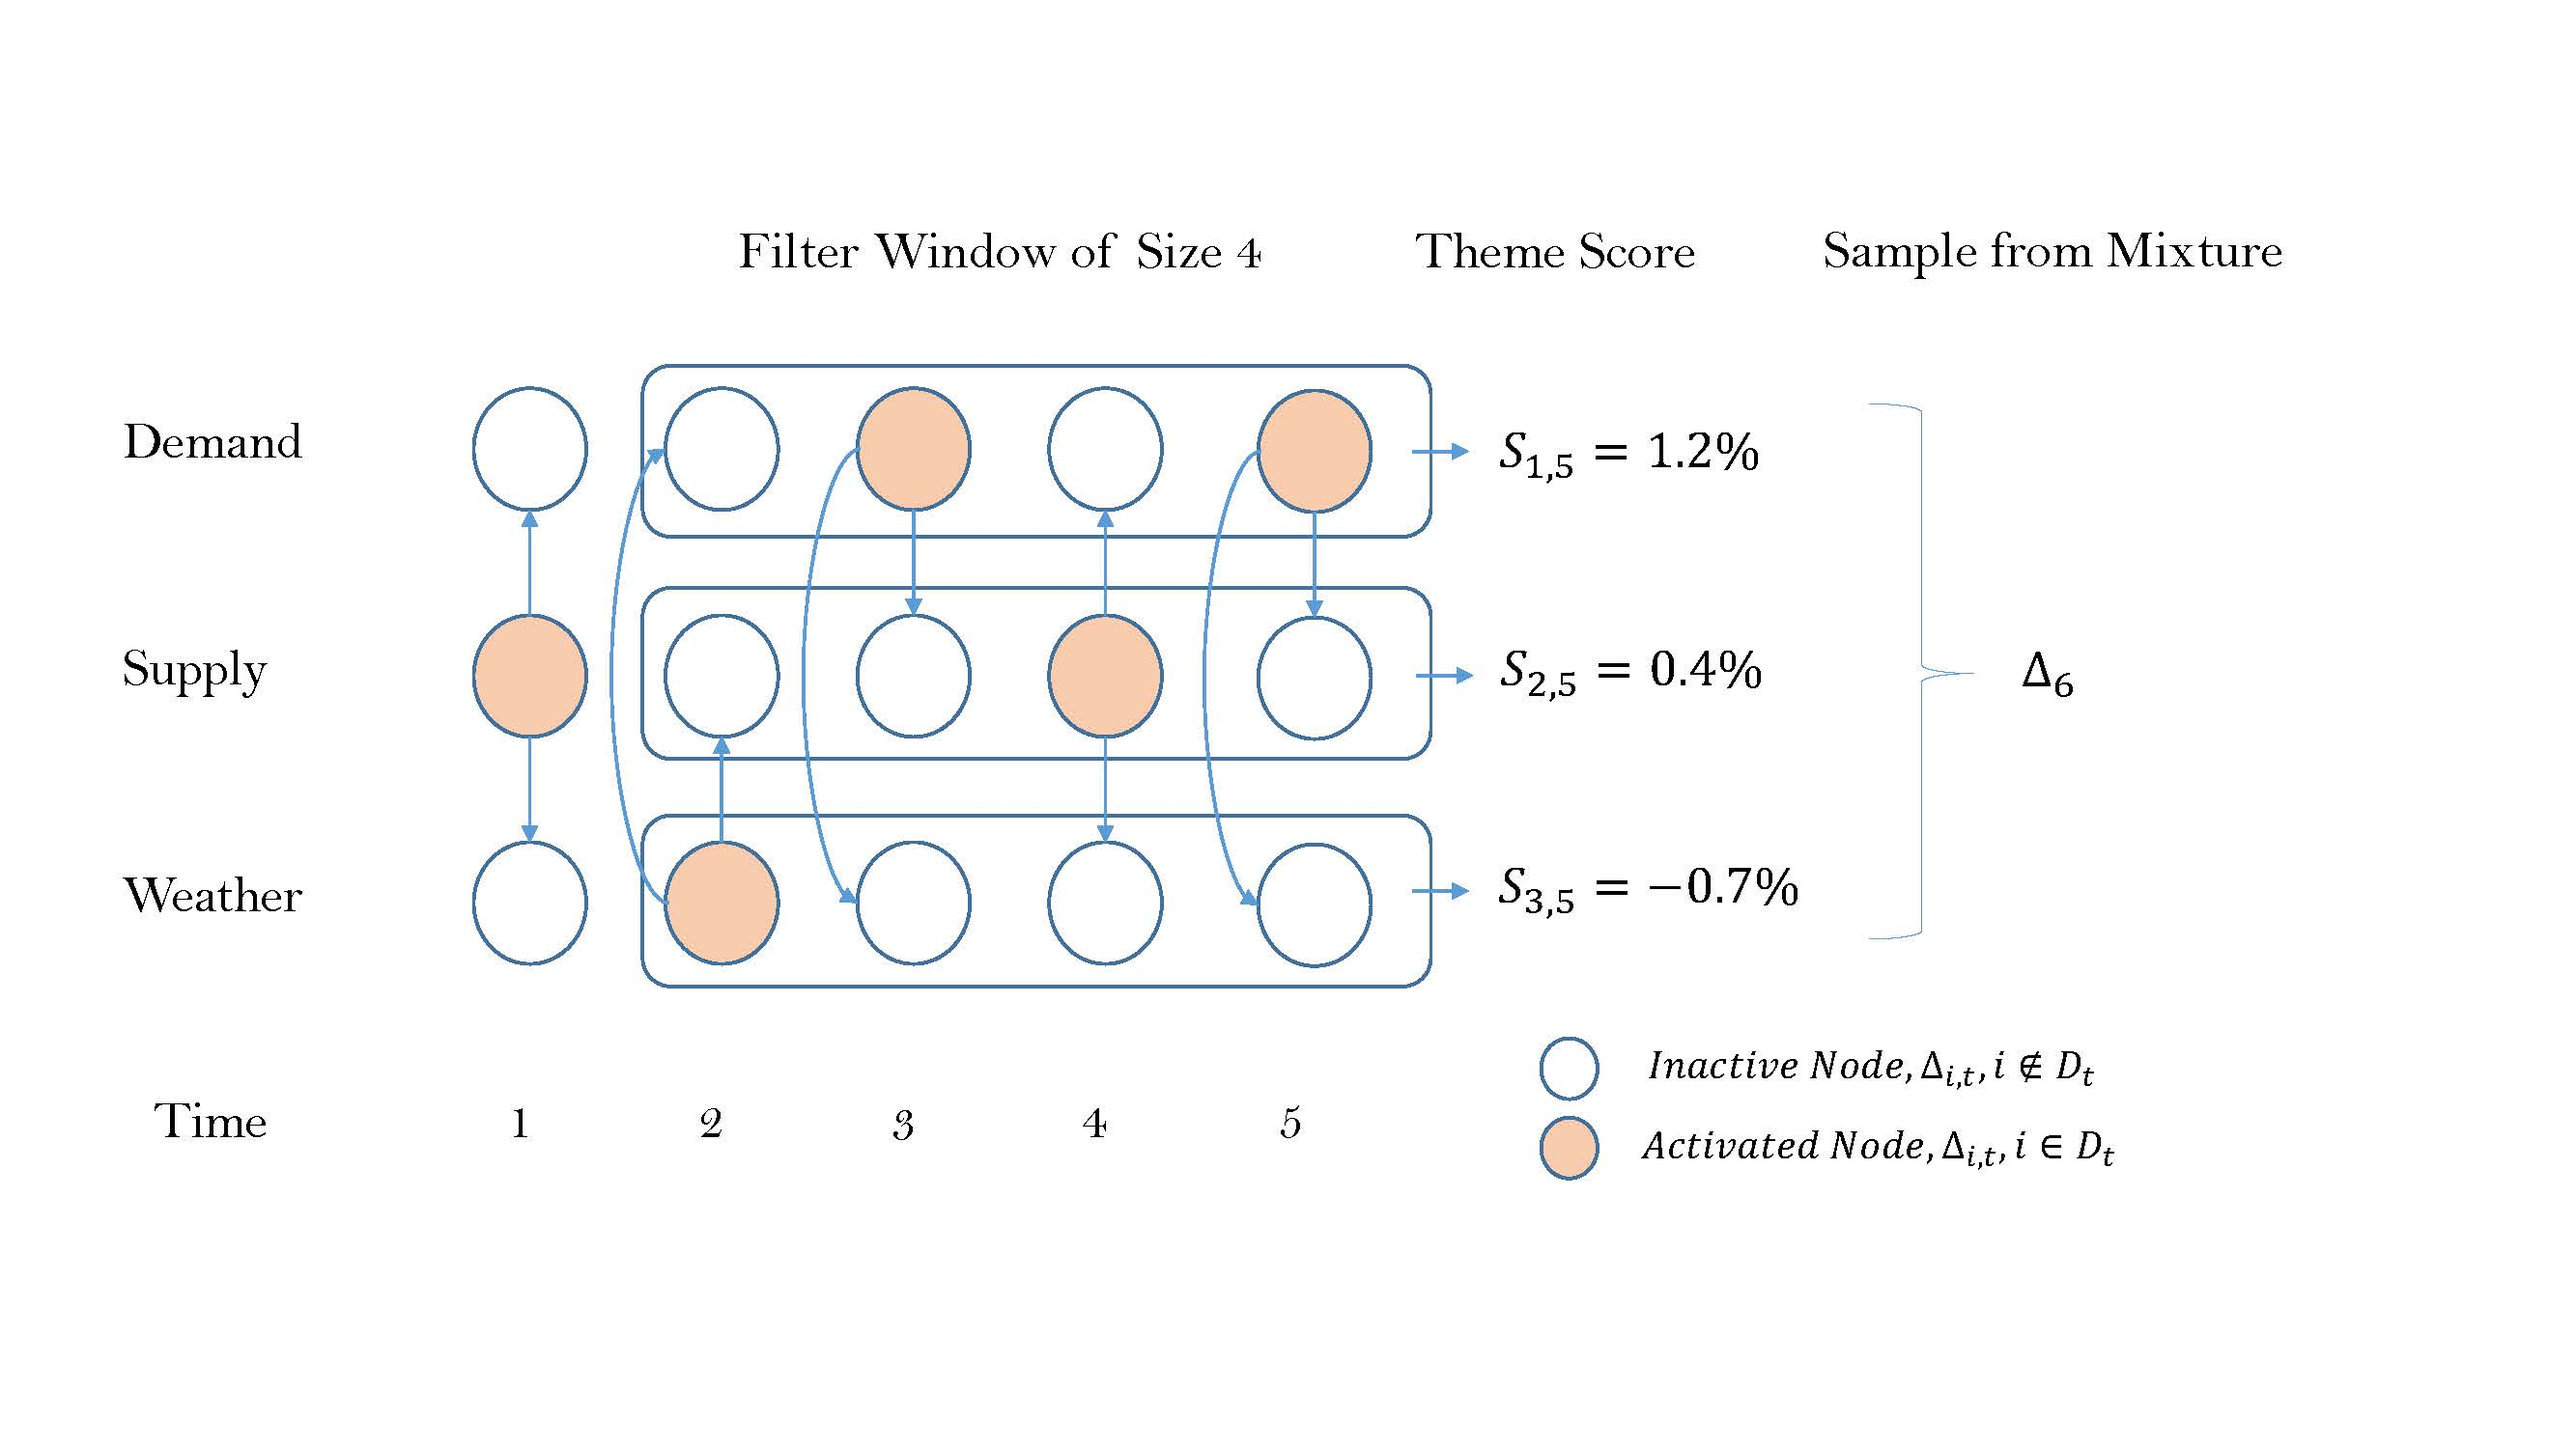
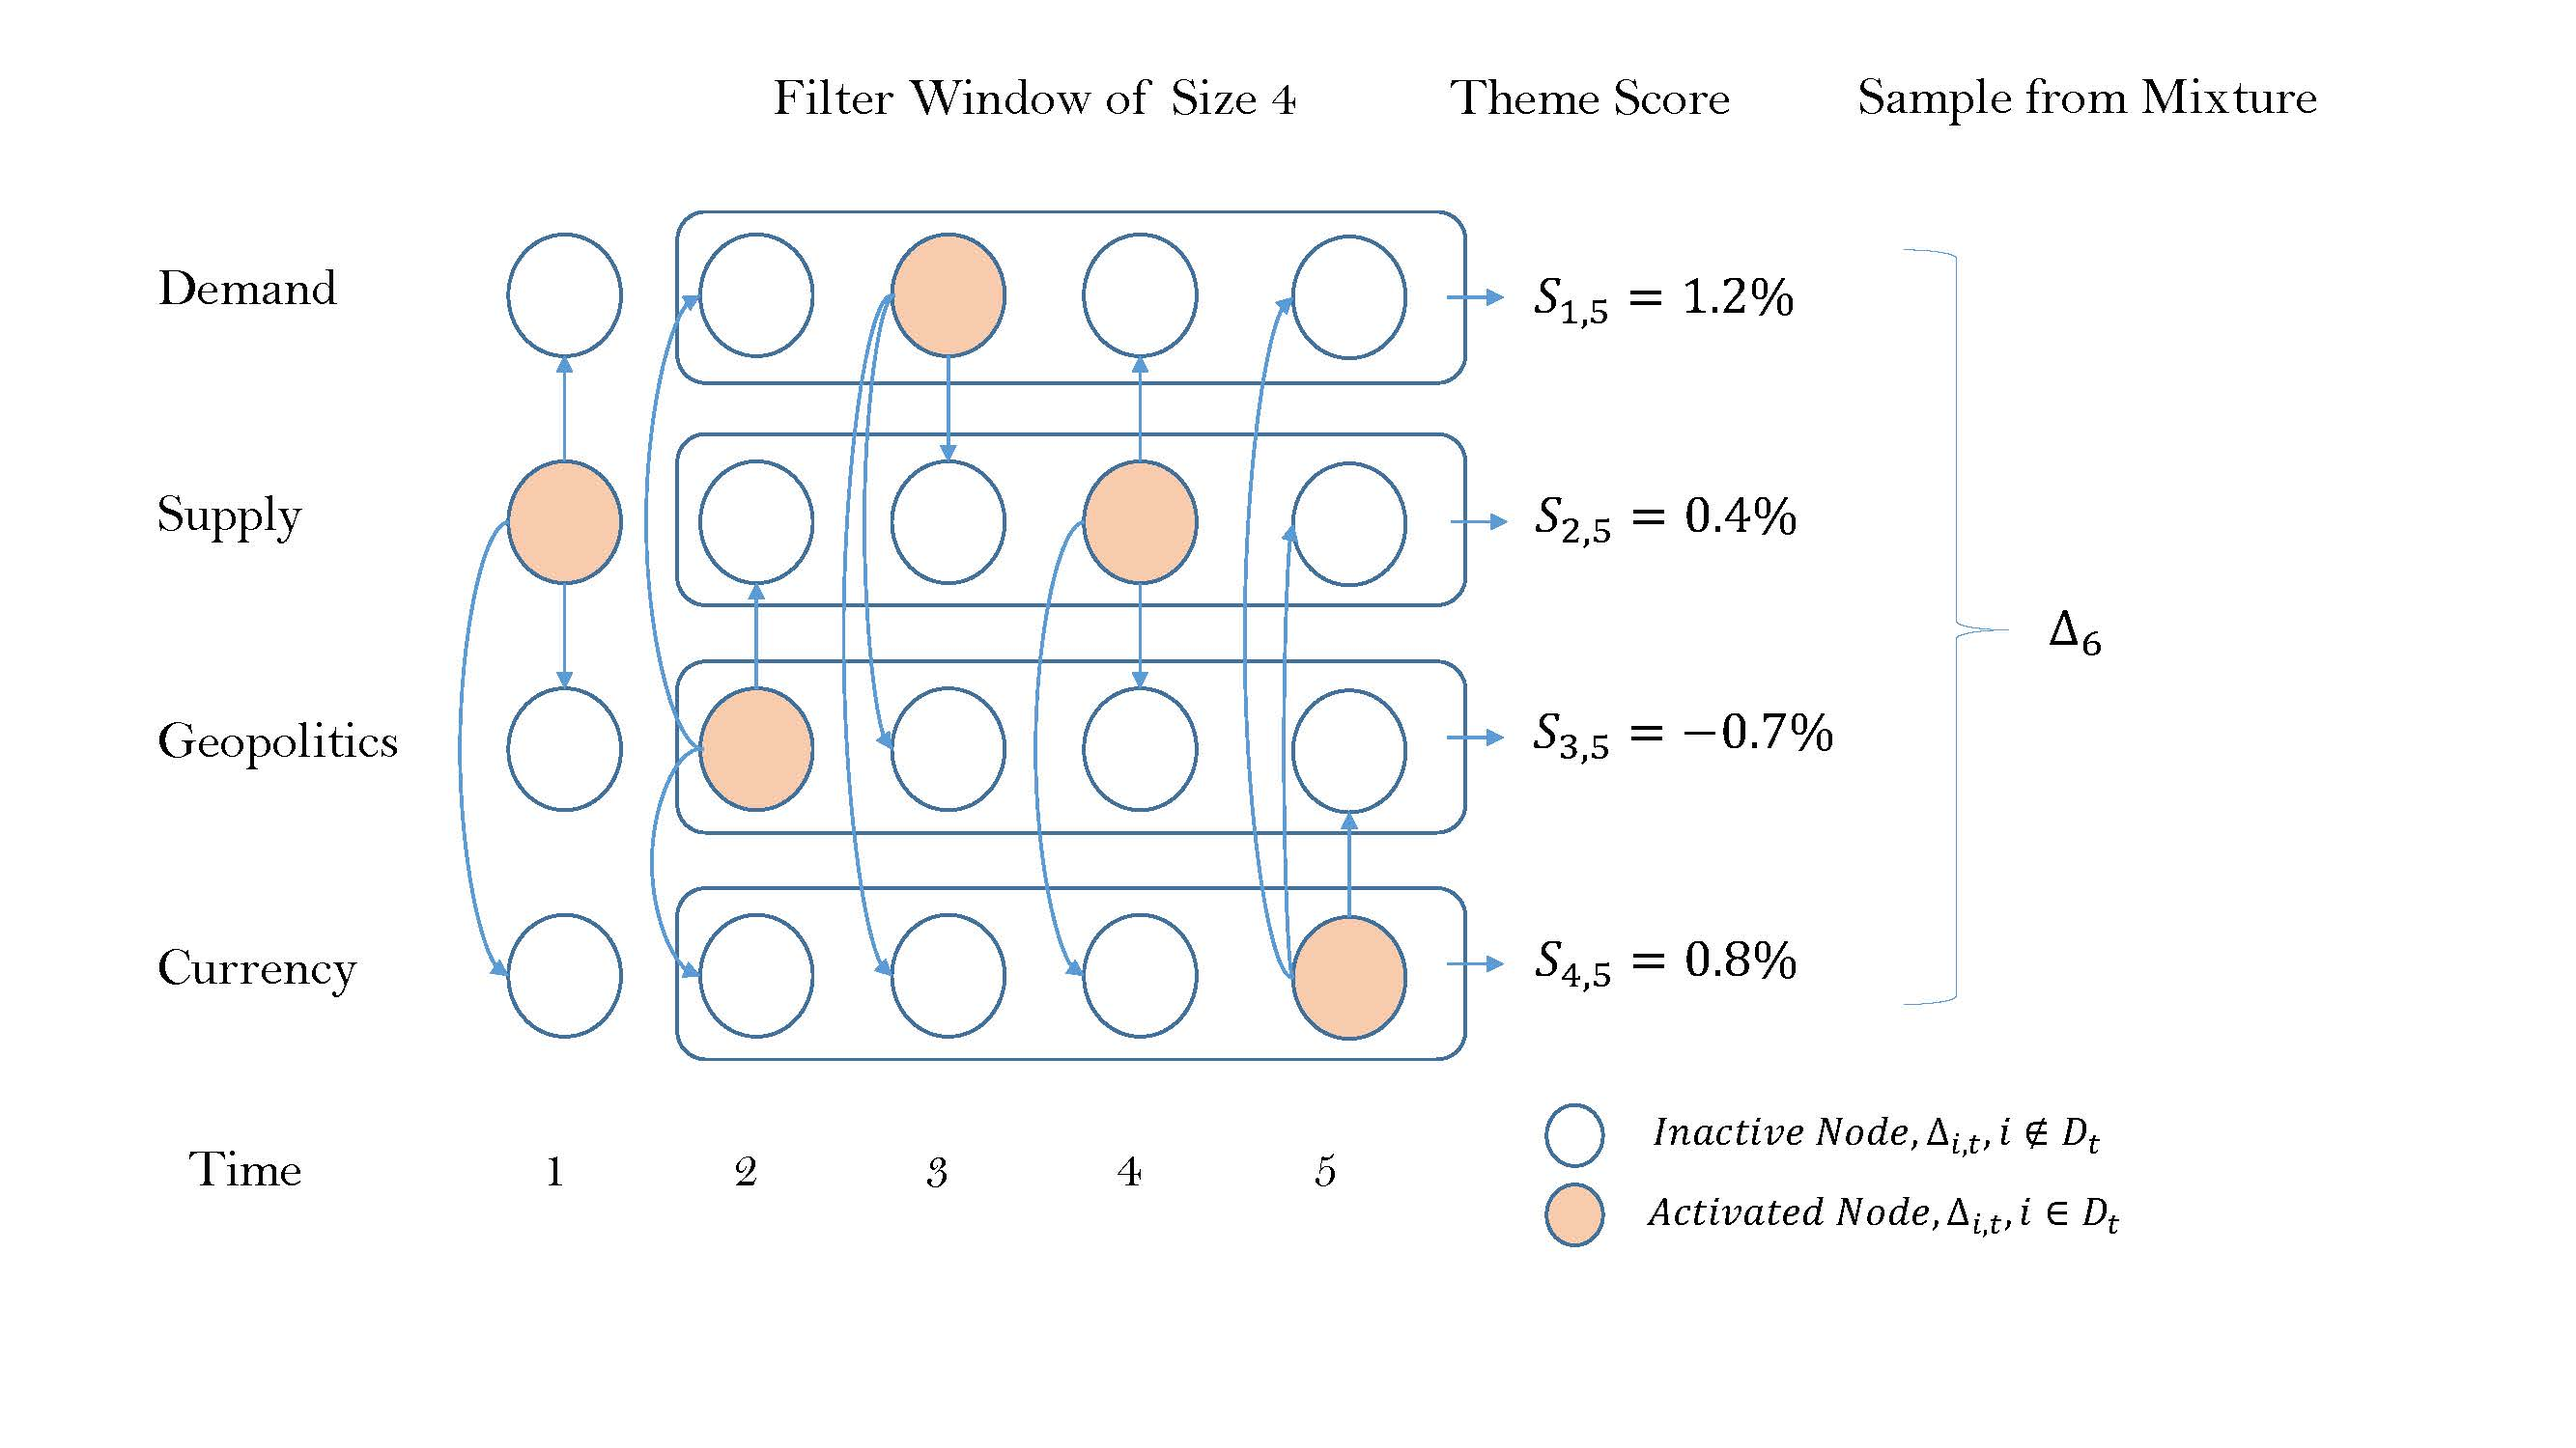
replace 4-theme market illustration

diff --git a/docs/index.md b/docs/index.md
@@ -60,7 +60,7 @@ Modules:
 
 <figure>
   <img src="assets/images/CompFlow.jpg" alt="Modeling Framework" style="max-width: 100%; height: auto;">
-  <figcaption>Figure 1: Computational Flow. This diagram illustrates our model's computational process for a three-theme market (Demand, Supply, and Weather). A filter window of size 4 processes the theme-specific information increment time-series. Activated theme is colored in orange and inactive theme is in white. A theme score is calculated for each theme after the filtering process. The next return is sampled from a mixture model of previous theme scores.</figcaption>
+  <figcaption>Figure 1: Computational Flow. This diagram illustrates our model's computational process for a four-theme market (Demand, Supply, Weather and Currency). A filter window of size 4 processes the theme-specific information increment time-series. Activated theme is colored in orange and inactive theme is in white. A theme score is calculated for each theme after the filtering process. The next return is sampled from a mixture model of previous theme scores.</figcaption>
 </figure>
 
 Themes and Theme scores.
@@ -79,8 +79,8 @@ Themes and Theme scores.
 ### (Daily News Briefing)
 **Briefing Visualization**:
 <div id="report" style="width:100%; height:600px; border:1px solid #ccc; overflow:auto;">
-  <iframe src="reports/20251023_report.html" width="100%" height="100%" frameborder="0">
-    Your browser does not support iframes. Please <a href="reports/20251023_report.html">click here to view the content</a>.
+  <iframe src="reports/20251027_report.html" width="100%" height="100%" frameborder="0">
+    Your browser does not support iframes. Please <a href="reports/20251027_report.html">click here to view the content</a>.
   </iframe>
 </div>
 
